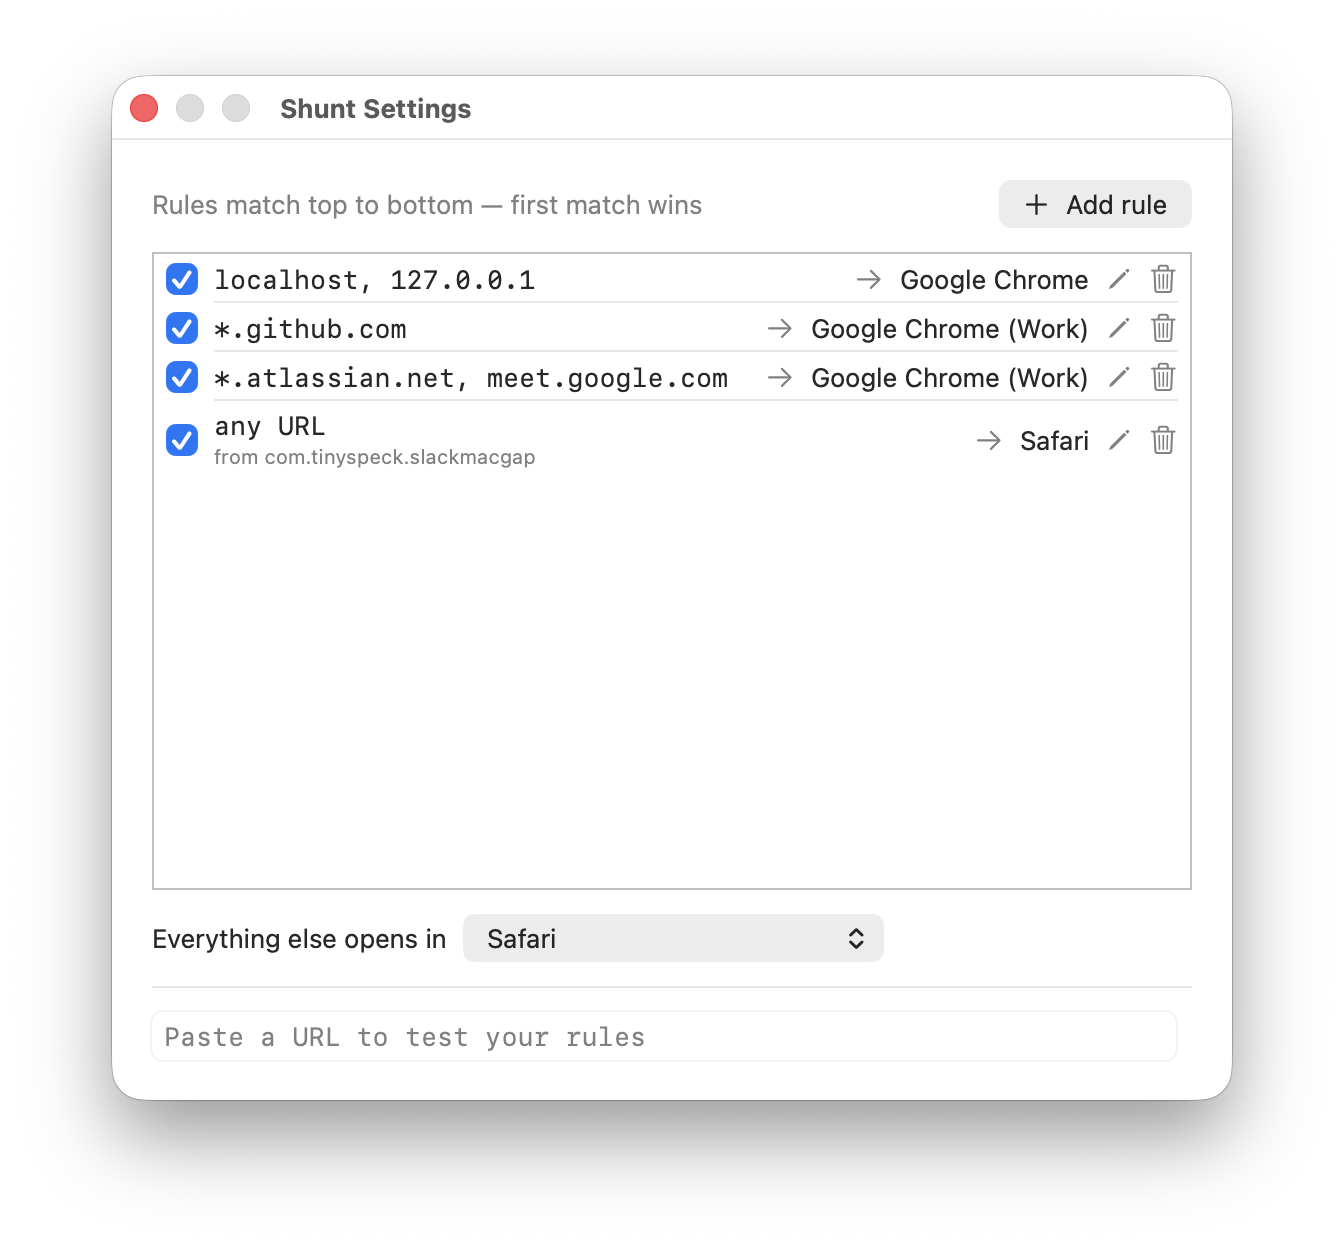
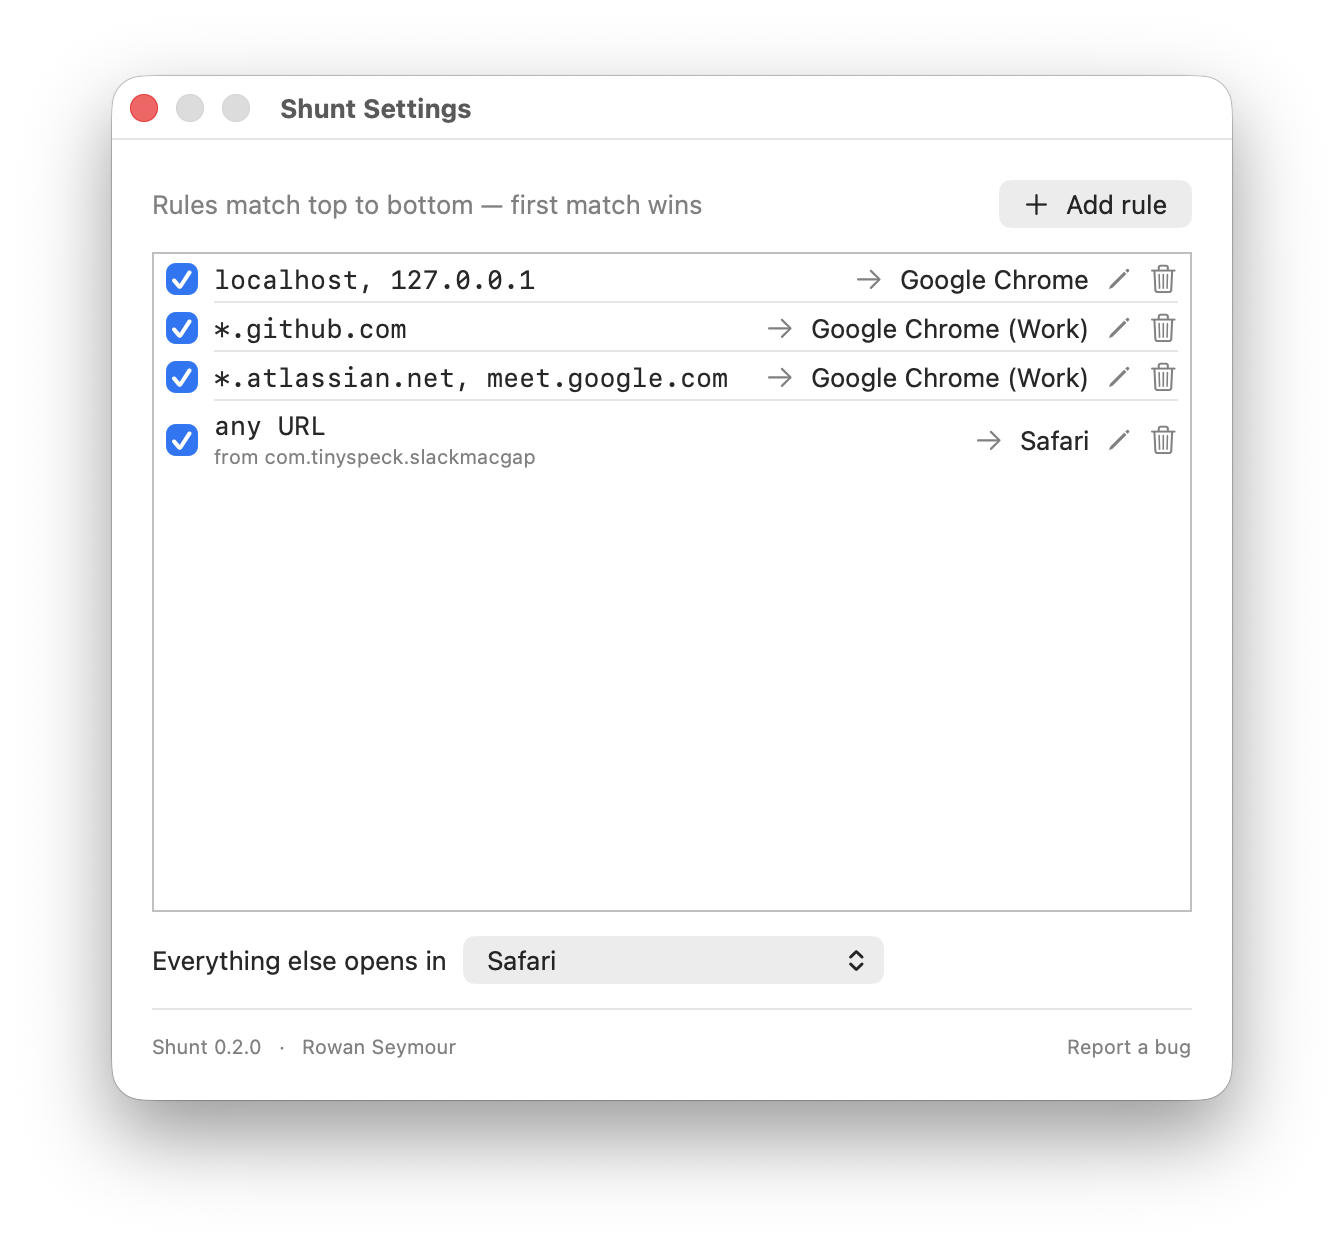
Replace settings test input with version and credits footer
The URL test field wasn't earning its place in the settings window.
Replace it with a footer showing the app version, author credit, and
a link to report bugs.

The version comes from the bundle, so bin/build now stamps the Info.plist
with the version from git describe (local builds previously showed the
stale placeholder). bin/screenshot stamps the bare release version instead
so the README screenshot doesn't churn with every commit.

Changed region(s): [[0.0938, 0.7188, 0.875, 0.8438]]

diff --git a/Sources/Shunt/UI/SettingsView.swift b/Sources/Shunt/UI/SettingsView.swift
@@ -5,7 +5,6 @@ struct SettingsView: View {
     @Environment(AppModel.self) private var model
     @State private var editingRule: Rule?
     @State private var editingIsNew = false
-    @State private var testInput = ""
 
     var body: some View {
         @Bindable var model = model
@@ -42,7 +41,7 @@ struct SettingsView: View {
 
             Divider()
 
-            testRow
+            footer
         }
         .padding(20)
         .frame(width: 560, height: 480)
@@ -135,23 +134,19 @@ struct SettingsView: View {
         .opacity(rule.enabled ? 1 : 0.5)
     }
 
-    private var testRow: some View {
+    private var footer: some View {
         HStack {
-            TextField("Paste a URL to test your rules", text: $testInput)
-                .textFieldStyle(.roundedBorder)
-                .font(.body.monospaced())
-            Text(testResult)
-                .foregroundStyle(.secondary)
-                .lineLimit(1)
+            Text("Shunt \(appVersion)")
+            Text("·")
+            Link("Rowan Seymour", destination: URL(string: "https://github.com/rowanseymour")!)
+            Spacer()
+            Link("Report a bug", destination: URL(string: "https://github.com/rowanseymour/shunt/issues")!)
         }
+        .font(.caption)
+        .foregroundStyle(.secondary)
     }
 
-    private var testResult: String {
-        guard !testInput.isEmpty else { return "" }
-        guard let url = URL(string: testInput), url.host != nil else { return "not a URL" }
-        if let rule = RuleMatcher.firstMatch(for: url, sourceApp: nil, in: model.config.rules) {
-            return "\(rule.label) → \(model.destinationName(browserID: rule.browserID, profile: rule.profile))"
-        }
-        return "fallback → \(model.browserName(for: model.config.fallbackBrowserID))"
+    private var appVersion: String {
+        Bundle.main.infoDictionary?["CFBundleShortVersionString"] as? String ?? "dev"
     }
 }
